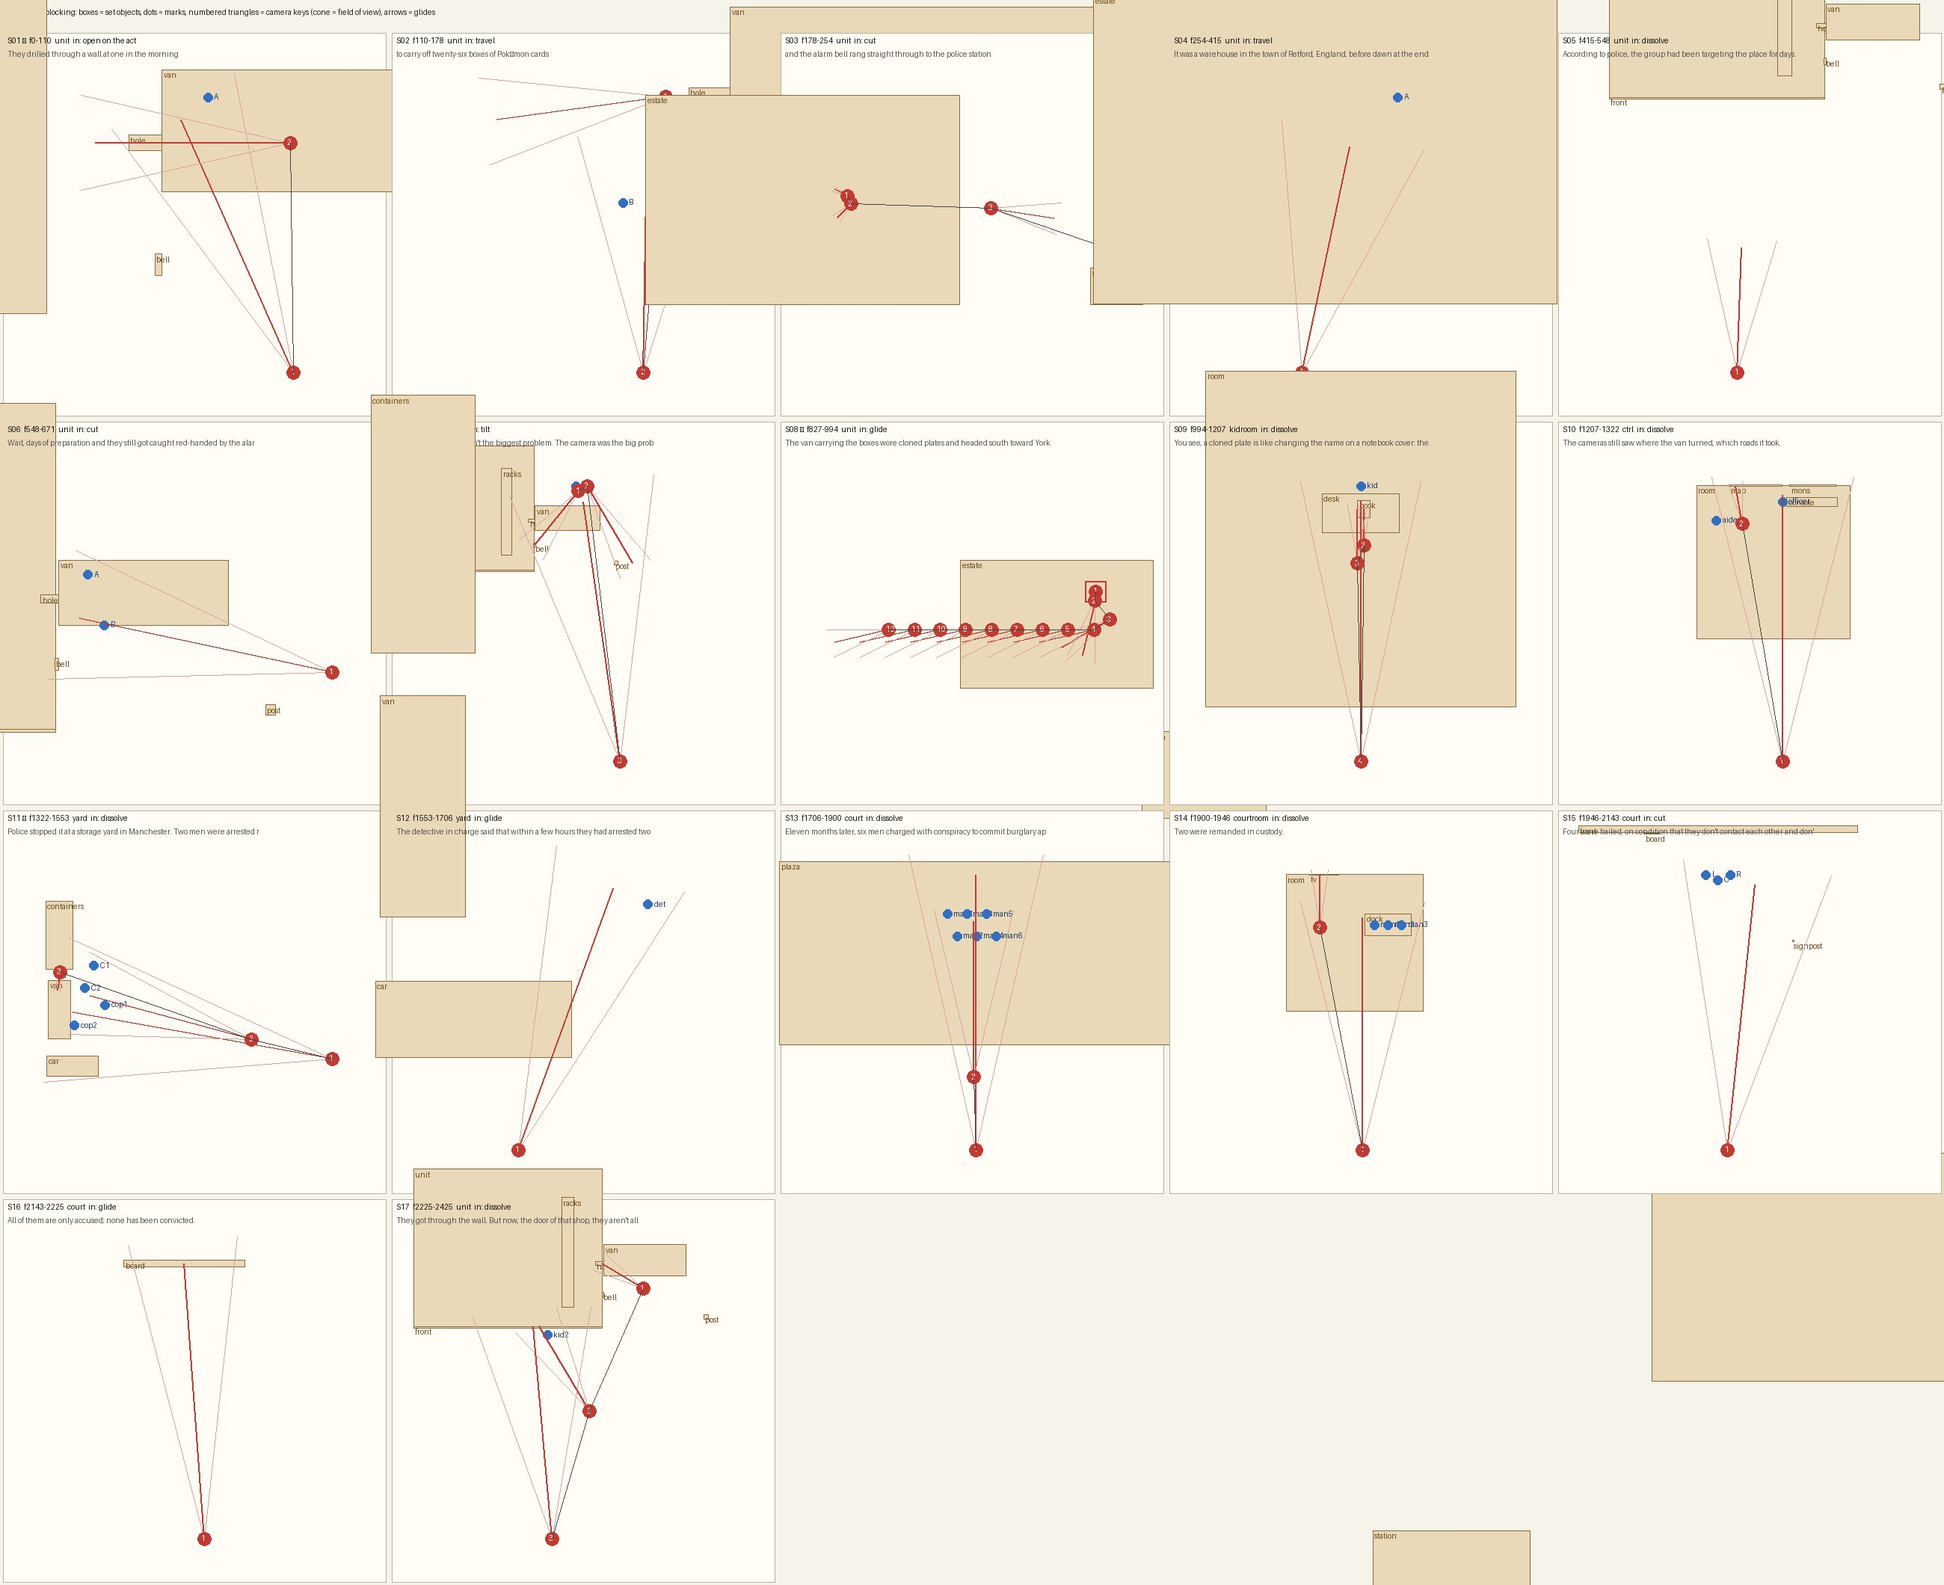
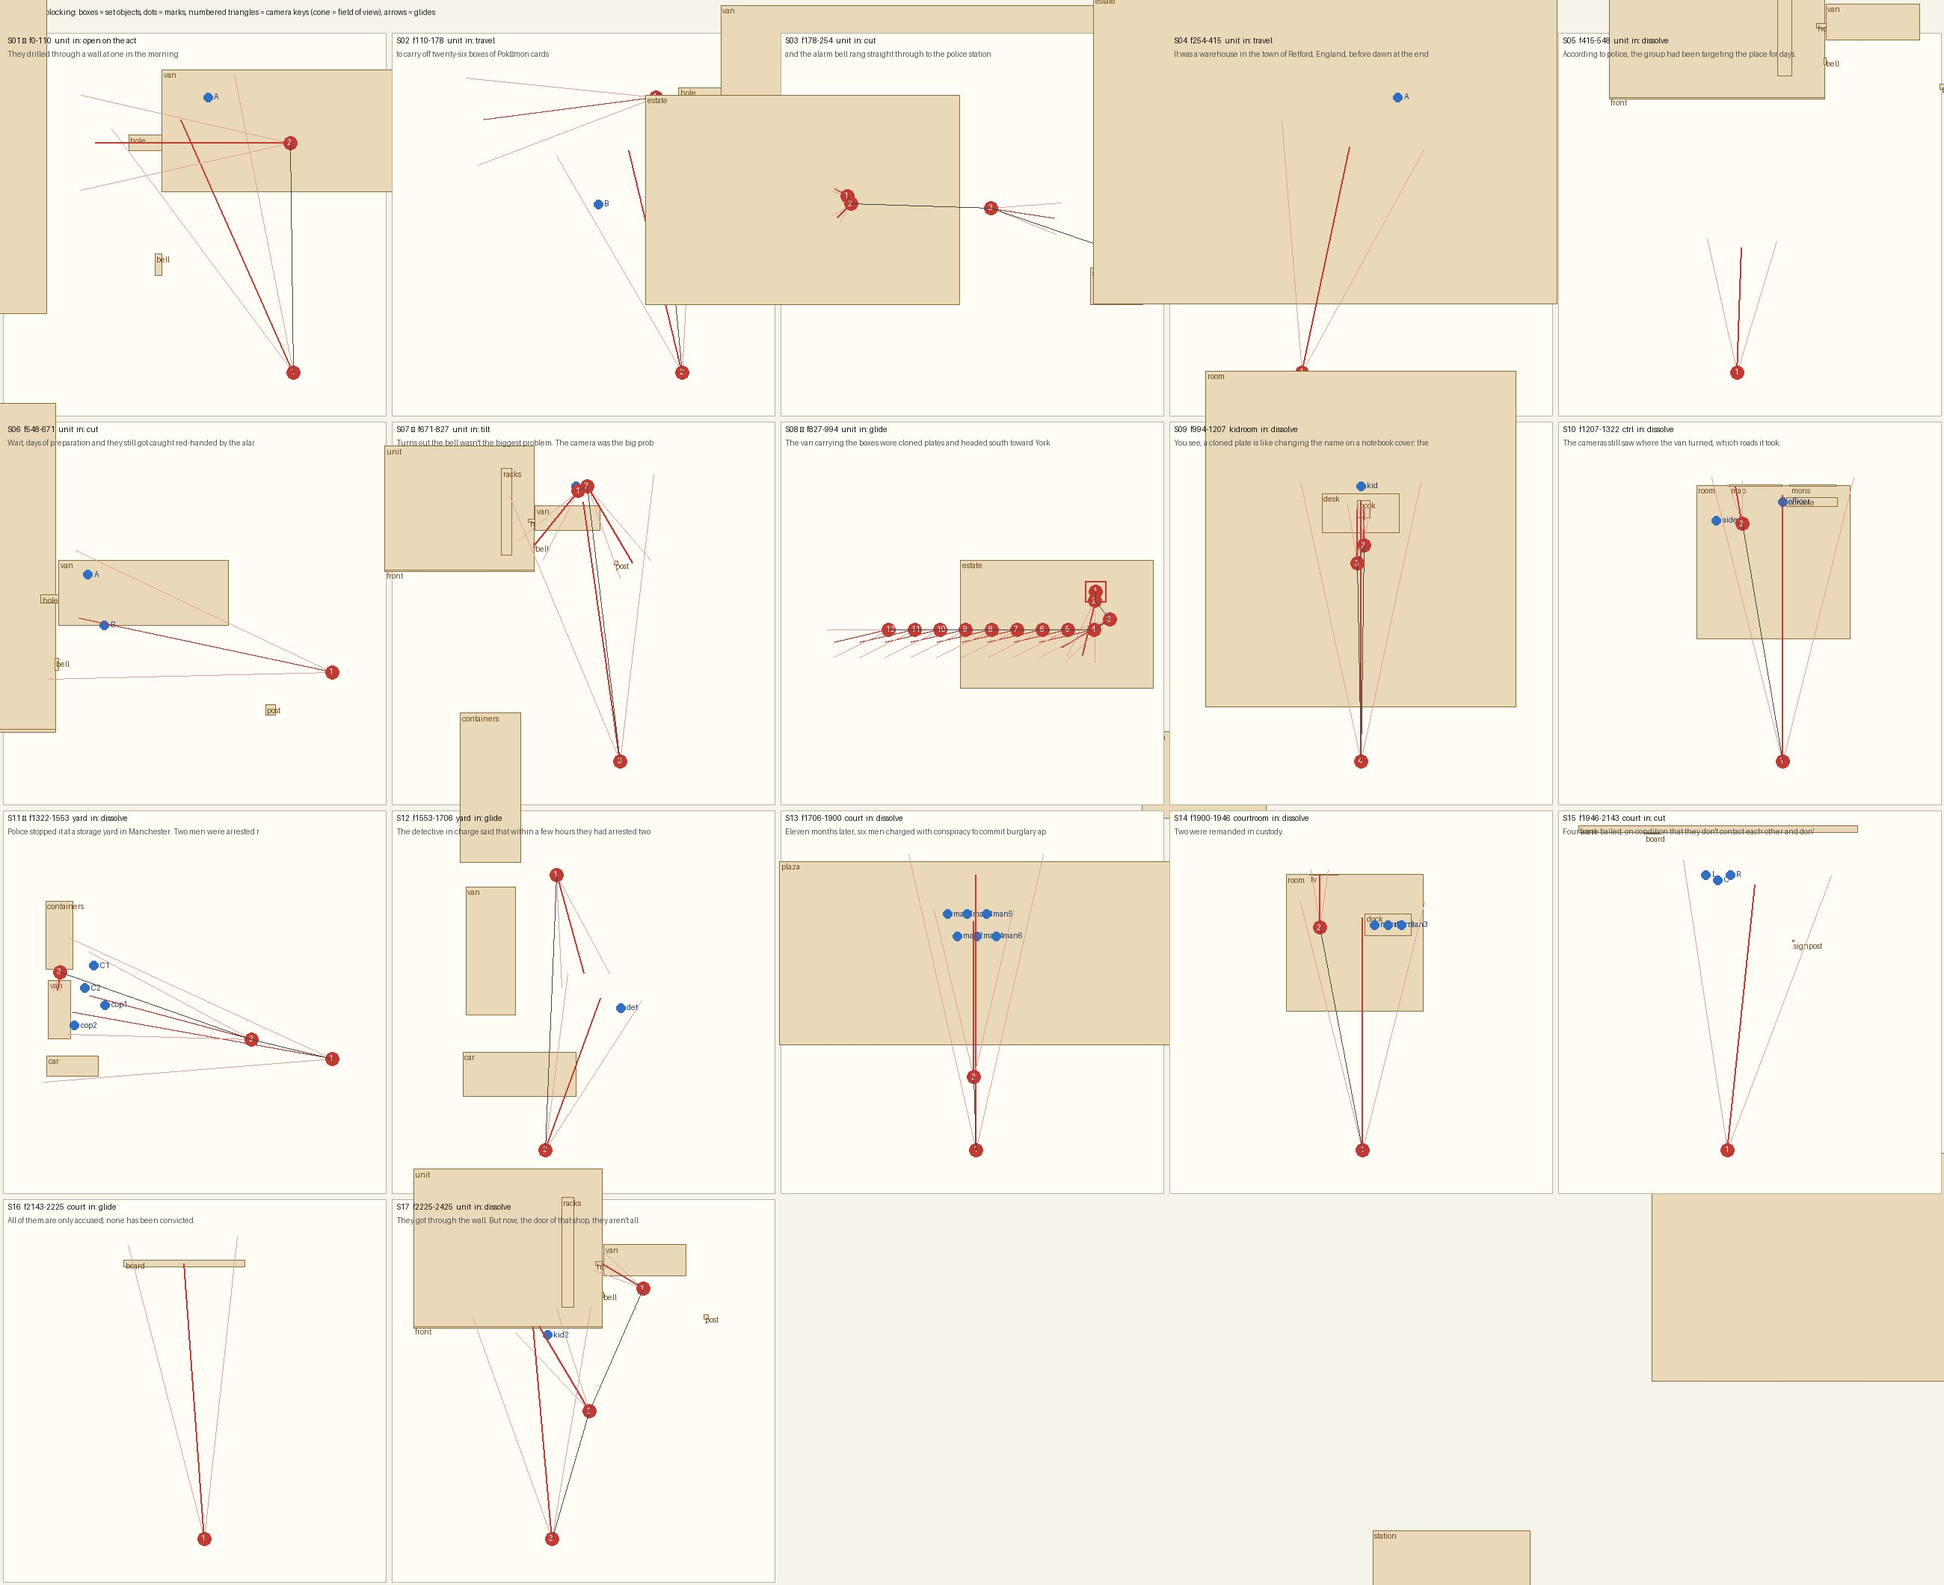
Retford reel: flicker check (coplanar 0; S02 and S12 glides rerouted), notes, CLAUDE.md row

Changed region(s): [[0.1869, 0.2491, 0.3115, 0.716], [0.3738, 0.0, 0.405, 0.0311], [0.3427, 0.0311, 0.3738, 0.0623]]

diff --git a/src/videos/retford/sets.ts b/src/videos/retford/sets.ts
@@ -651,7 +651,7 @@ export const buildSets = (root: THREE.Object3D): Sets => {
   for (const y of [3.2, 5.6, 8.8]) box(b, stone, fx0 - 0.03, y, 0, fx1 + 0.03, y + 0.22, 0.06);
   box(b, cbrick, fx0, 0, -14, fx0 + 0.3, FH, -0.4); box(b, cbrick, fx1 - 0.3, 0, -14, fx1, FH, -0.4); box(b, C("#c9643a"), fx0 - 0.2, FH, -14.2, fx1 + 0.2, FH + 0.25, 0.25);
   box(b, stone, cdx0 - 0.4, cdy + 0.6, 0, cdx1 + 0.4, cdy + 0.75, 1.6); box(b, stone, cdx0 - 0.35, 0, 0, cdx0 - 0.25, cdy + 0.6, 1.5); box(b, stone, cdx1 + 0.25, 0, 0, cdx1 + 0.35, cdy + 0.6, 1.5);
-  box(b, stone, cdx0 - 1.0, 0, 0, cdx1 + 1.0, 0.12, 0.5);
+  box(b, stone, cdx0 - 1.0, 0, 0.02, cdx1 + 1.0, 0.12, 0.5);
   box(b, C("#2a2c33"), CO.board[0] - CO.board_size[0] / 2 - 0.04, CO.board[1] - CO.board_size[1] / 2 - 0.04, 0, CO.board[0] + CO.board_size[0] / 2 + 0.04, CO.board[1] + CO.board_size[1] / 2 + 0.04, 0.045);
   { const [spx, spz] = CO.signpost; cyl(b, C("#f4f1ea"), spx, 0, spz, 0.06, 0.06, 2.9, 10); for (let y = 0.2; y < 2.6; y += 0.5) cyl(b, C("#1a1a1a"), spx, y, spz, 0.062, 0.062, 0.25, 10); sph(b, C("#1a1a1a"), spx, 2.92, spz, 0.08); }
   for (const x of [-6.5, -4.2, 4.2, 6.5]) { box(b, C("#c9a46a"), x - 0.5, 0, 1.6, x + 0.5, 0.5, 2.6); sph(b, C("#d8322f"), x - 0.2, 0.6, 2.1, 0.25); sph(b, C("#f2c23a"), x + 0.2, 0.6, 2.0, 0.22); sph(b, C("#3fa048"), x, 0.62, 2.3, 0.24); }

diff --git a/src/videos/retford/cast.ts b/src/videos/retford/cast.ts
@@ -390,7 +390,7 @@ const s11 = (out: Stage, cam: CamInfo, f: number, id: number) => {
     const A = mkAt(YAo, from), B = mkAt(YAo, to);
     if (id === 11 && f < WALK11[0]) continue;
     if (id === 11 && f < WALK11[1]) { walkTo(out, cam, who, A, B, f, WALK11[0], WALK11[1], { expr: "stern" }); continue; }
-    const at2 = id === 12 ? mkAt(YAo, [1.2, 7.2]) : B, fo = stand(out, cam, who, at2, f, { expr: "stern" }); if (fo) restArms(out, cam, who, at2, fo, f);
+    const at2 = id === 12 ? mkAt(YAo, [-2.6, 7.4]) : B, fo = stand(out, cam, who, at2, f, { expr: "stern" }); if (fo) restArms(out, cam, who, at2, fo, f);
   }
   if (id === 12) {
     const p = mkAt(YAo, Y.det), fo = stand(out, cam, "det", p, f, { expr: f > NOD12 ? "smile" : "stern", headTilt: f >= NOD12 && f < NOD12 + 10 ? 0.15 * Math.sin(((f - NOD12) / 10) * Math.PI) : 0 }, [NOD12]);

diff --git a/videos/retford-wall-heist/mkplan.py b/videos/retford-wall-heist/mkplan.py
@@ -37,7 +37,7 @@ UNIT = dict(
     town_sign=[-3.0, 3.3], layby=[-5.0, 8.0, 13.0, 19.0],
     gantries=[[-18.0, "SOUTH YORKSHIRE"], [-58.0, "MANCHESTER"]], road_cams=[-8.0, -30.0, -44.0, -72.0, -88.0], road_cam_z=12.4,
     # marks [x, z] at the feet
-    A_drill=[6.85, -4.75], A_wait=[7.05, -4.75], A_load=[9.4, -6.8], B_rack=[4.68, -2.6], B_hole=[5.3, -3.6],
+    A_drill=[6.85, -4.75], A_wait=[7.05, -4.75], A_load=[9.4, -6.8], B_rack=[4.5, -2.6], B_hole=[5.3, -3.6],
     A_freeze=[7.0, -4.75], B_freeze=[7.5, -3.2], officer=[58.6, 15.4], kid_walk=[6.5, 3.2], kid_door=[2.5, 0.55])
 U = UNIT
 VAN = dict(L=5.2, W=2.0, H=2.3, cab=0.9, rear=-2.6,
@@ -201,7 +201,7 @@ scene(id="S02", f=[110, 178], set="unit", light="night",
   action="f110-116 the camera passes through the hole (along z -4); f112 title 26; f116-128 B slides a carton off the rack; f130-146 B carries it to the hole; f146-160 he pushes it into the tunnel; f160-178 the carton slides out through the tunnel.",
   acting="B: quick, careful, eyes on the hole.",
   cams=[k(110, [5.25, 1.0, -4.0], [3.0, 0.95, -3.7], 46, glide=8, push=0.0, why="through the hole"),
-        k(124, [4.95, 1.6, -0.35], [5.0, 1.0, -3.3], 56, glide=20, push=0.0006, why="inside: B, the racks of cartons, the hole")],
+        k(124, [5.6, 1.6, -0.4], [4.9, 1.0, -3.3], 56, glide=20, push=0.0006, why="inside: B, the racks of cartons, the hole")],
   kicks=[],
   marks=[{"who": "B", "at": U["B_rack"], "view": "front", "pose": "lifts a carton f116-128; walks to B_hole f130-146; pushes it into the hole f146-160", "expr": "nervous"}],
   subjects=[{"n": "B head", "p": HEAD(U["B_hole"]), "f": [148, 176]}],
@@ -393,7 +393,8 @@ scene(id="S12", f=[1553, 1706], set="yard", light="golden",
   blocking="Detective at det, front view; cop1 behind at the car.",
   action="f1553-1600 glide out of the van to the detective and the stack; f1588 ('chỉ trong vài giờ') she taps her watch; f1650 she nods at the stack ('lấy lại'); the sun climbs 2 deg over the scene.",
   acting="Detective: brisk, satisfied.",
-  cams=[kf(1553, body(DET) + [[STK[0] - 0.7, 1.55, STK[1]], [STK[0] + 0.7, 0.02, STK[1]]], az=-20, el=-6, fov=44, glide=34, push=0.0007, why="the detective and the recovered stack")],
+  cams=[k(1553, [2.3, 1.45, 0.5], [3.4, 1.2, 4.5], 44, glide=14, push=0.0, why="out of the gap between the van and the container"),
+        kf(1567, body(DET) + [[STK[0] - 0.7, 1.55, STK[1]], [STK[0] + 0.7, 0.02, STK[1]]], az=-20, el=-6, fov=44, glide=30, push=0.0007, why="the detective and the recovered stack")],
   kicks=[],
   marks=[{"who": "det", "at": DET, "view": "front", "pose": "taps her watch f1588; nods at the stack f1650", "expr": "stern -> smile"}],
   subjects=[{"n": "det head", "p": HEAD(DET), "f": [1590, 1705]}, {"n": "stack", "p": [STK[0], 0.8, STK[1]], "f": [1590, 1705]}],

diff --git a/videos/retford-wall-heist/notes.md b/videos/retford-wall-heist/notes.md
@@ -5,4 +5,18 @@ Composition `RetfordReel` · code `src/videos/retford/` · assets `public/retfor
 ## Build log (v1, 27 Nov 2026)
 - VO "Generated Audio November 27, 2026 - 1_29PM.wav" saved as `voice_src.wav`; script unchanged from `script.md`. `vo_words.py` (`../.venv/bin/python3`): 278 words, VO ends 79.74 s = f2392; reel 2425 f.
 - `check:` lines were digits and spellings (1, 26, 12, Redford/Retford, đồng/đồn …), except one: whisper heard "hai." for "hàng bị mất. Mười" (56.7-58.1 s). Fixed by hand from the silence: "mất." ends 57.22 s, "Mười" starts 58.03 s (0.8 s pause).
-- `beats.md` written (17 scenes, 2 cuts); waiting for the user's OK.
+- `beats.md` written (17 scenes); the user approved it ("Beats OK, go").
+- Plan: `mkplan.py` → `plan.json` (17 scenes, 6 places: the Retford estate with its road west under the two gantries and the police station east, one set; the kid's room; the control room; the Manchester storage yard; the Mansfield court front; the courtroom). 0 check errors; warnings are feet touching the caption band and the fast travels. Three hard cuts: S03 (outside to the bell; the camera can't leave the warehouse through B at the hole), S06 ("Khoan"), S15. The van's route out of the yard is in the plan (`van_route`, dense samples) so the build and the checks follow the same path.
+- Changes from the beats: S04 is the night wide with the van in the side yard (the beats had it across the road; at night it is at the hole). The RETFORD town sign stands on the pavement in front of the unit so the wide can hold it. S03 is a cut instead of a camera exit through the hole.
+- Base: the Chicago build (`BASE=chicago new_reel.sh`); story, sets, cast, world, art2, looks rewritten; no engine change. Night uses the engine's `night` light; every set material is the toon `lam()` (plain Lambert went near-black at night).
+- Cards: real scans in the shop window (S04 by night, S05 by day, S17): `zard151`, `blast151`, `venu151`, `pika151`, `bubble_mew` from the library; new `umbreon_pe` (Prismatic Evolutions Umbreon ex SIR 161/131, 733x1024). No card is named in the VO, so none gets the 40% hold.
+- No likenesses or names: hooded burglars with eye masks, generic suits; the business is never named (the sign says TRADING CARDS); the detective is "DETECTIVE" on a lanyard. Allegations only: the last court beat is the notice board's plea hearing.
+- Gags, one motion each (27 Nov rules): the plug falling in, one carton at a time, the calendar pages, the label swap, the route drawing itself, one dropped carton, the turn at the RETFORD signpost, a kid pushing the door. Nobody sits (empty van cab, standing dock, tall desk, no chairs in the courtroom).
+- Captions: `mkcaptions.py` (60 phrases, longest 34 characters). Sound: `audio/retford_audio.py` (-14.8 LUFS, TP -1.2; memes: Huh on "Khoan", the camera shutter when the camera wakes, the suspense riser into the arrest, the realization sting at the signpost).
+- Sweep fixes before v1 (three rounds): the van moved deeper into the yard (its pillar blocked the hook and S06) and the lamp post moved off its route; the hole panels, signs and the notice board were black at night (toon materials); S02 restaged inside (the camera was in B's face); S04 wide refitted with a phone box, post box and bare tree in front; the S05 calendar halved; the plate moved in front of the rear doors; S07, S11 and S12 cameras were looking the wrong way round; the yard cabin and an officer blocked the arrest (cabin moved, marks changed, container doors folded back); the hedge ran through the police station; the signpost arms all showed one name (shared material); the S16 notice was cropped; the court bollards filled the foreground.
+- Flicker check: `[coplanar]` 0 after one fix (the court's front step against the wall). Runs left, all looked at: f134-136 (S02, the camera glides past B: motion), f1184-1186 (S09 pull back to the kid), f1304-1305 (S10 push to the map), f1555-1556 and f1574-1576 (S12, out of the van and over to the detective). The S12 glide used to pass through the van's wall and an officer: rerouted.
+
+### Open
+- Seen only as stills: the plug's fall and the loose bricks, the calendar pages, the label peel, the police car's slide, the dropped carton's bounce, the door swings; check them in motion.
+- S02: B fills the frame for about 4 frames as the camera glides past him (a whip-by).
+- Render as v1: `scripts/render.command RetfordReel Retford_v1`.

diff --git a/videos/retford-wall-heist/direction.md b/videos/retford-wall-heist/direction.md
@@ -31,7 +31,7 @@ Two hard cuts (S06 "Khoan", S15 out of the courtroom). Travels: through the hole
 ### unit
 - Origin in the shared world: [0, 0, 0]. Axes: the unit's front wall is z 0 (faces +z, the estate road along x); the side wall with the hole is x 6 (faces +x, the side yard); the police station is down the road at x 55..65 across it; the road runs west (-x) under the two gantry signs.
 - Light: night; sun az/el [-40, 35]. Open camera sides: +x, +z.
-- Marks [x, z]: A_drill [6.85, -4.75]; A_load [9.4, -6.8]; B_rack [4.68, -2.6]; B_hole [5.3, -3.6]; A_freeze [7, -4.75]; B_freeze [7.5, -3.2]; officer [58.6, 15.4]; kid_walk [6.5, 3.2]; kid_door [2.5, 0.55].
+- Marks [x, z]: A_drill [6.85, -4.75]; A_load [9.4, -6.8]; B_rack [4.5, -2.6]; B_hole [5.3, -3.6]; A_freeze [7, -4.75]; B_freeze [7.5, -3.2]; officer [58.6, 15.4]; kid_walk [6.5, 3.2]; kid_door [2.5, 0.55].
 
 | id | build | centre [x, y, z] | size [x, y, z] m |
 |---|---|---|---|
@@ -149,7 +149,7 @@ Two hard cuts (S06 "Khoan", S15 out of the courtroom). Travels: through the hole
 - Set: unit. Light: night.
 - Build: the warehouse: racks of cartons (TRADING CARDS / FRAGILE), the plug lying on the floor, ceiling lights.
 - Blocking: B at B_rack (front view) lifts a carton from the third shelf f116-128, walks to B_hole f130-146 and pushes it into the hole f146-160.
-  - B at [4.68, -2.6], front; lifts a carton f116-128; walks to B_hole f130-146; pushes it into the hole f146-160; nervous.
+  - B at [4.5, -2.6], front; lifts a carton f116-128; walks to B_hole f130-146; pushes it into the hole f146-160; nervous.
 - Action, against the words: f110-116 the camera passes through the hole (along z -4); f112 title 26; f116-128 B slides a carton off the rack; f130-146 B carries it to the hole; f146-160 he pushes it into the tunnel; f160-178 the carton slides out through the tunnel.
 - Acting: B: quick, careful, eyes on the hole.
 - Camera keys:
@@ -157,7 +157,7 @@ Two hard cuts (S06 "Khoan", S15 out of the courtroom). Travels: through the hole
 | f | move | pos | look | fov | push %/f | blur px | why |
 |---|---|---|---|---|---|---|---|
 | 110 | open | [5.25, 1, -4] | [3, 0.95, -3.7] | 46 | 0 | 0 | through the hole |
-| 124 | glide 20 f | [4.95, 1.6, -0.35] | [5, 1, -3.3] | 56 | 0.06 | 0 | inside: B, the racks of cartons, the hole |
+| 124 | glide 20 f | [5.6, 1.6, -0.4] | [4.9, 1, -3.3] | 56 | 0.06 | 0 | inside: B, the racks of cartons, the hole |
 
 - Kicks (7 f): none.
 - Physics & FX: the carton: kinematic in his hands.
@@ -402,7 +402,8 @@ Two hard cuts (S06 "Khoan", S15 out of the courtroom). Travels: through the hole
 
 | f | move | pos | look | fov | push %/f | blur px | why |
 |---|---|---|---|---|---|---|---|
-| 1553 | open | [1.858, 1.401, 11.662] | [4.094, 0.714, 5.519] | 44 | 0.07 | 0 | the detective and the recovered stack |
+| 1553 | open | [2.3, 1.45, 0.5] | [3.4, 1.2, 4.5] | 44 | 0 | 0 | out of the gap between the van and the container |
+| 1567 | glide 30 f | [1.858, 1.401, 11.662] | [4.094, 0.714, 5.519] | 44 | 0.07 | 0 | the detective and the recovered stack |
 
 - Kicks (7 f): none.
 - Physics & FX: none.

diff --git a/CLAUDE.md b/CLAUDE.md
@@ -41,7 +41,7 @@ Account skills they call: `vn-news-script` (the script), `story-reel-director` (
 ## Layout
 | Path | What |
 |---|---|
-| `src/index.ts`, `src/Root.tsx` | Register the compositions: `JirachiReel`, `FossilReel`, `MonacoReel`, `ChocoboReel`, `FanaticsReel`, `MudkipReel`, `AtticReel`, `GpsReel`, `PsaReel`, `LucasReel`, `TcgplayerReel`, `GengarReel`, `GoldenrodReel`, `CaterpieReel`, `ChicagoReel`, `MesaReel` (each with a `…Captions` comp), `BridgeShort`, `CharTest` |
+| `src/index.ts`, `src/Root.tsx` | Register the compositions: `JirachiReel`, `FossilReel`, `MonacoReel`, `ChocoboReel`, `FanaticsReel`, `MudkipReel`, `AtticReel`, `GpsReel`, `PsaReel`, `LucasReel`, `TcgplayerReel`, `GengarReel`, `GoldenrodReel`, `CaterpieReel`, `ChicagoReel`, `MesaReel`, `RetfordReel` (each with a `…Captions` comp), `BridgeShort`, `CharTest` |
 | `src/engine/` | The shared engine (toon characters, ink, shading, paint, lights, grade, lens blur, geometry). New reels import it; changes must be additive |
 | `src/videos/<reel>/` | One folder per reel: that reel's story, sets, cast, art, captions and `Reel.tsx` (see `library/INDEX.md`). The newest base is `monaco/` (channel logo, anti-flicker `box()` helper, near plane 0.12; `new_reel.sh` copies it). Attic, GPS, PSA and Bridge still hold their own engine copies |
 | `src/enzo/` | Enzo's `Title2` titles and the Bolota font loader |
@@ -56,6 +56,7 @@ Account skills they call: `vn-news-script` (the script), `story-reel-director` (
 
 | Reel | Composition | Video folder | Status |
 |---|---|---|---|
+| Retford wall heist (drilled through a wall, a fake-plated van, six charged at Mansfield) | `RetfordReel` (2425 f) | `videos/retford-wall-heist/` | v1 built to the 25 Nov quality bar, ready to render (27 Nov 2026) |
 | Mira Mesa Bubble Mew (a stranger runs off with a 12-year-old's card at her first show) | `MesaReel` (2510 f) | `videos/mira-mesa-bubble-mew/` | v1 built to the 25 Nov quality bar, ready to render (27 Nov 2026) |
 | Chicago shop (Old Skool TCG: sells, gets paid, steals 4 cards) | `ChicagoReel` (2440 f) | `videos/chicago-mew-theft/` | v1 built to the 25 Nov quality bar, ready to render (26 Nov 2026) |
 | iCaterpie lifetime ban (a deleted post, a lifetime ban, Worlds SF) | `CaterpieReel` (2360 f) | `videos/icaterpie-lifetime-ban/` | v1 built to the 25 Nov quality bar, ready to render (26 Nov 2026) |
